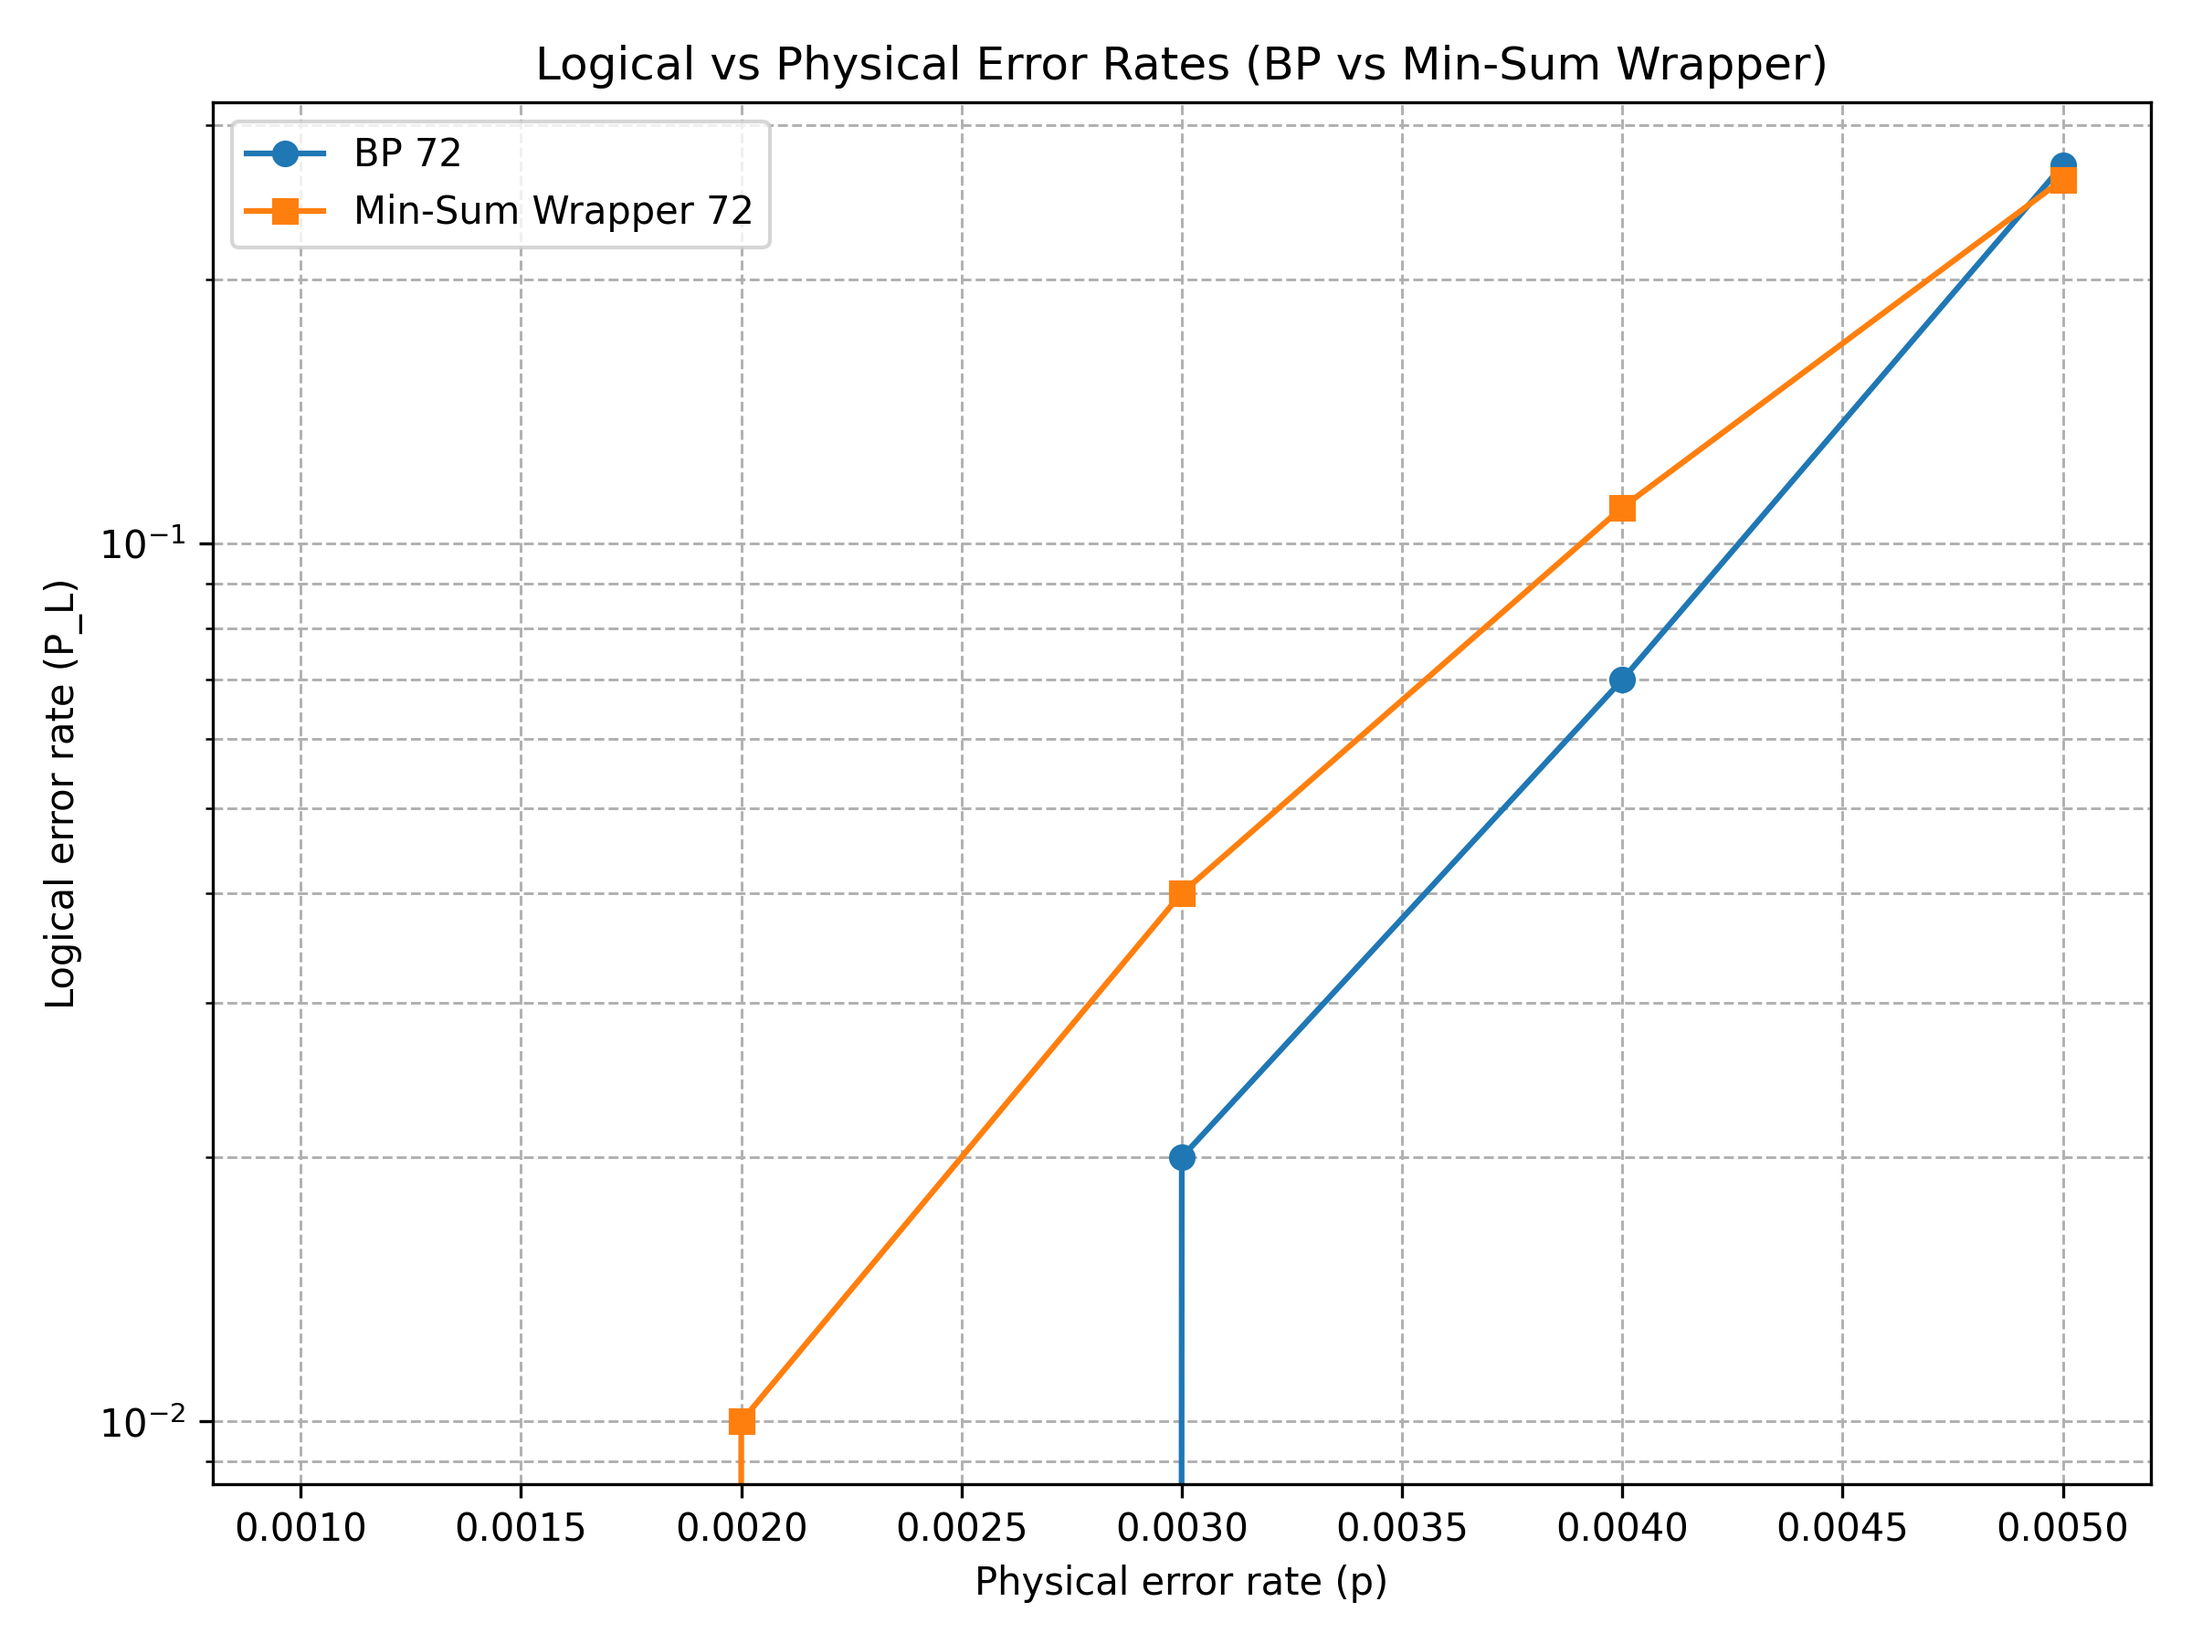
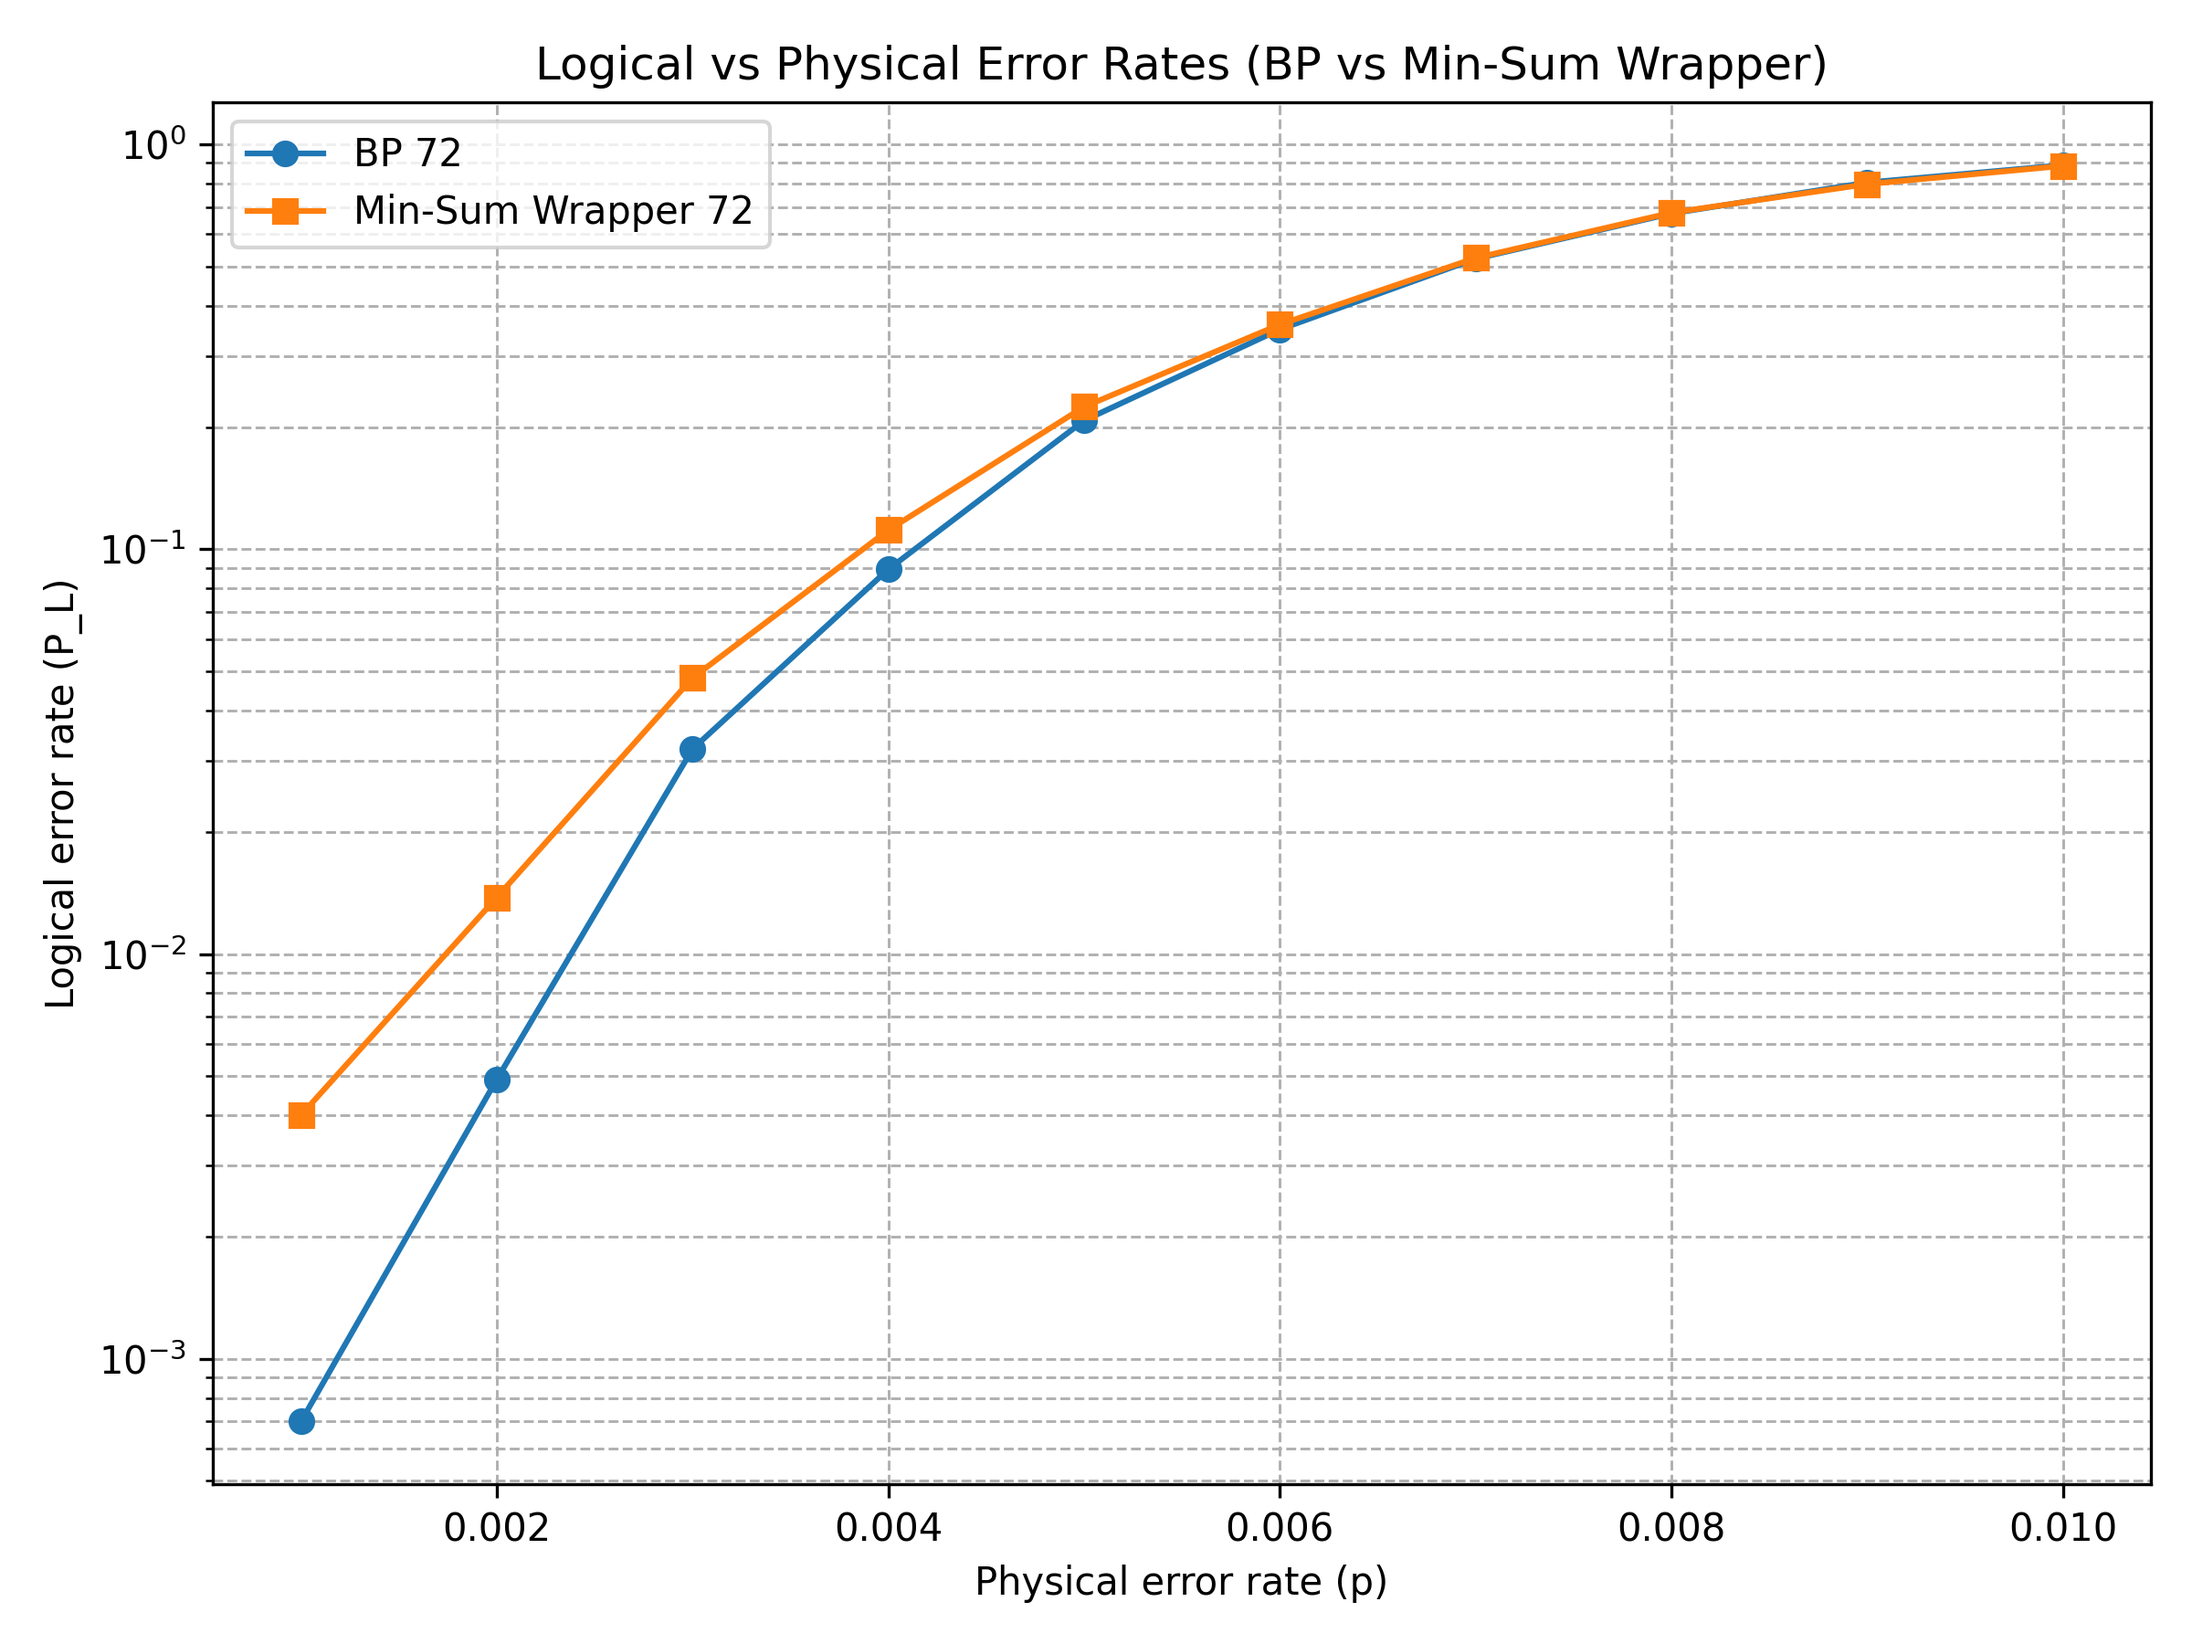
test for 72 code

diff --git a/long_test.py b/long_test.py
@@ -30,7 +30,7 @@ if __name__ == "__main__":
     
     # Number of Monte Carlo trials for physical error rates
     exp = 4
-    NMCs = [10**exp, 10**exp, 10**exp, 10**exp, 10**exp]  
+    NMCs = [10**exp, 10**exp, 10**exp, 10**exp, 10**exp,10**exp,10**exp,10**exp,10**exp,10**exp]  
     
     # Physical error rate that is simulated
     
@@ -116,7 +116,7 @@ if __name__ == "__main__":
         pcm = sparse.csc_matrix(code.hx, dtype=np.uint8)    
                 
         # Code distance
-        d = 12
+        d = 6
  
      
 

diff --git a/include/min_sum.h b/include/min_sum.h
@@ -1,10 +1,10 @@
 #pragma once
 
 #ifndef VNODES
-#define VNODES 8784
+#define VNODES 2232
 #endif
 #ifndef CHECK 
-#define CHECK 936
+#define CHECK 252
 #endif
 
 #ifndef COLORS_H
